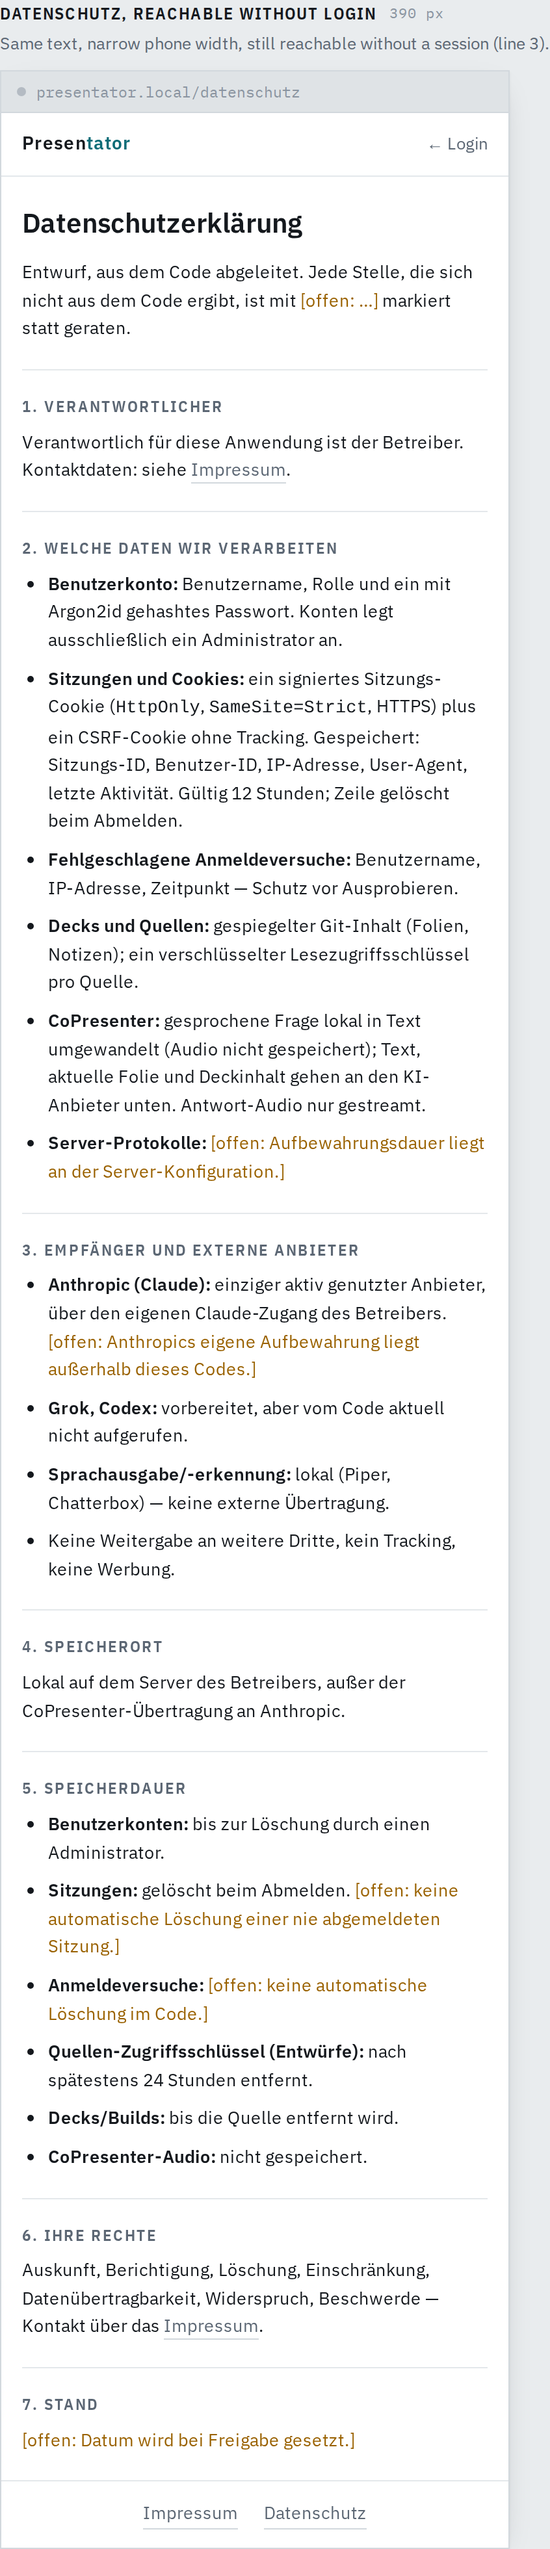
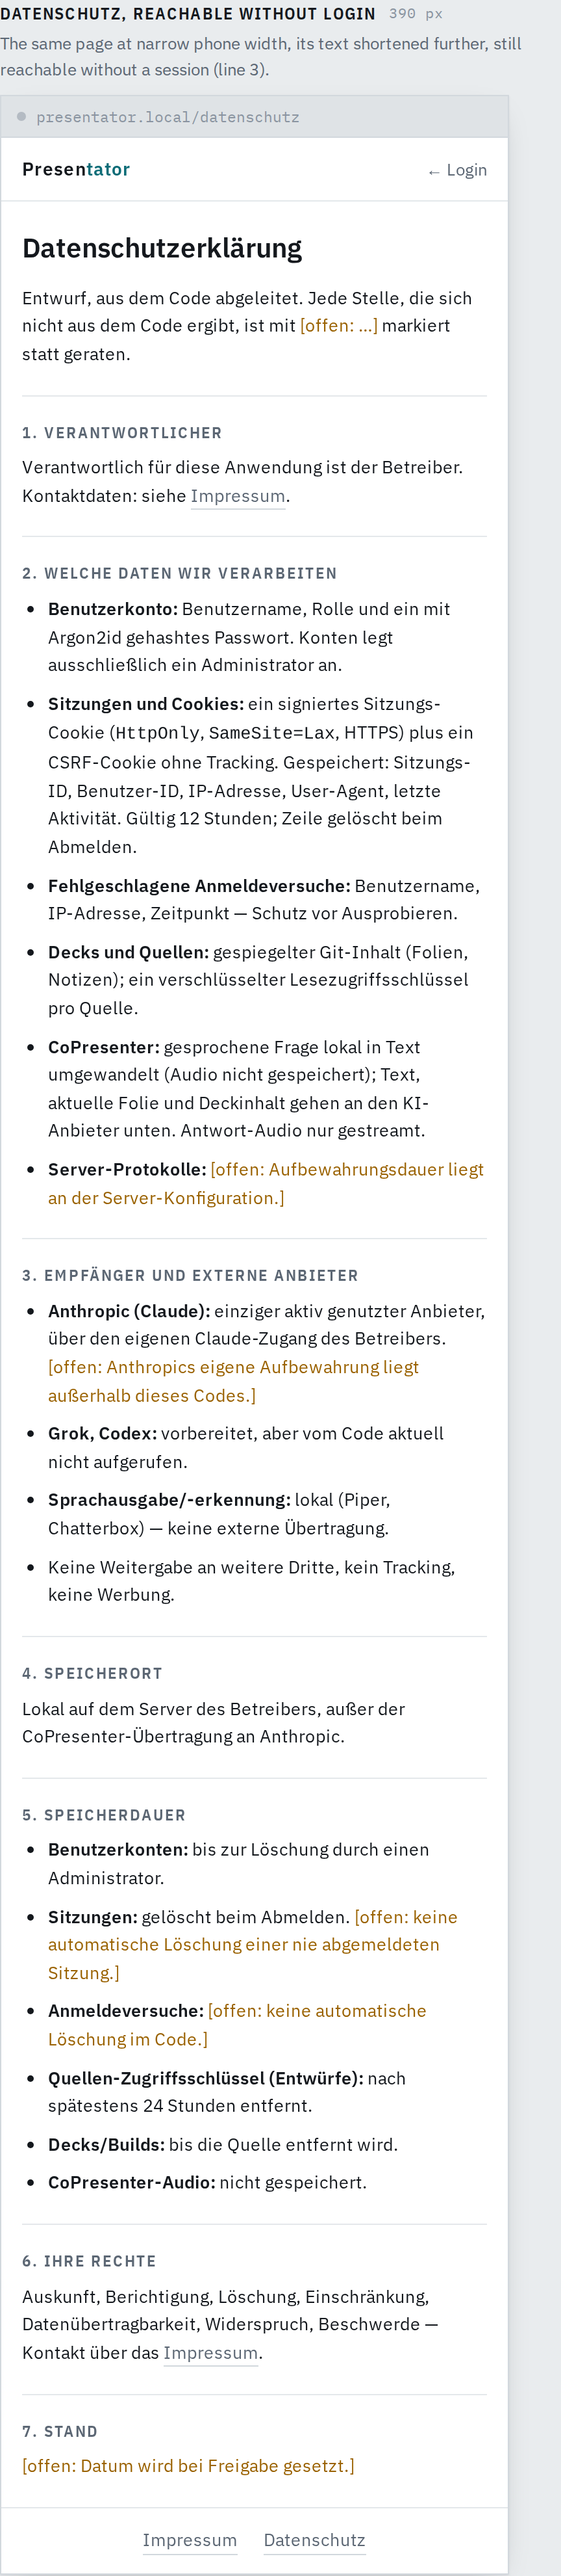
Mockup names api/legal.py as the Datenschutz text's owner
The artboards claimed the draft's text unchanged on both widths, but they
show a shortened rendition, and both said SameSite=Strict where the
cookie is Lax. The board notes and the mockup README now say the
artboards show the layout with shortened text, owned by api/legal.py and
approved as the draft; the cookie reads Lax. Re-rendered the two
Datenschutz artboards and the sheet; the unchanged legal artboards
re-render pixel-identical.

Work-Item: #196

diff --git a/docs/mockups/m0-lobby.html b/docs/mockups/m0-lobby.html
@@ -4622,7 +4622,7 @@ Cannot resolve import "./folien/03-fabric.md" from slides.md
       <figure class="board" id="datenschutz">
         <figcaption class="board-cap">
           <div class="board-title">Datenschutz, reachable without login <span class="w">1024 px</span></div>
-          <p class="board-note">Drafted from the code (<span class="path">docs/mockups/legal-datenschutz-draft.md</span>), identical text on both widths. The operator approves this text before it goes online (line 3); every <span class="offen">[offen: …]</span> marks a fact the code does not settle.</p>
+          <p class="board-note">The page's layout with its text shortened. The words are owned by <span class="path">src/presentator/api/legal.py</span>; the operator approves them as <span class="path">docs/mockups/legal-datenschutz-draft.md</span> before they go online (line 3). Every <span class="offen">[offen: …]</span> marks a fact the code does not settle.</p>
         </figcaption>
         <div class="frame" style="--w: 960px">
           <div class="route">presentator.local/datenschutz</div>
@@ -4646,7 +4646,7 @@ Cannot resolve import "./folien/03-fabric.md" from slides.md
                 <h2>2. Welche Daten wir verarbeiten</h2>
                 <ul>
                   <li><b>Benutzerkonto:</b> Benutzername, Rolle (Admin/Nutzer) und ein mit Argon2id gehashtes Passwort. Konten legt ausschließlich ein Administrator an; es gibt keine Selbstregistrierung.</li>
-                  <li><b>Sitzungen und Cookies:</b> ein serverseitig signiertes Sitzungs-Cookie (<code>HttpOnly</code>, <code>SameSite=Strict</code>, nur über HTTPS) sowie ein zweites, von JavaScript lesbares Cookie ausschließlich zum Fälschungsschutz (CSRF, kein Tracking). Gespeichert werden Sitzungs-ID, Benutzer-ID, IP-Adresse, User-Agent und der Zeitpunkt der letzten Aktivität. Eine Sitzung gilt nach 12 Stunden Inaktivität als beendet; die Zeile wird beim Abmelden gelöscht.</li>
+                  <li><b>Sitzungen und Cookies:</b> ein serverseitig signiertes Sitzungs-Cookie (<code>HttpOnly</code>, <code>SameSite=Lax</code>, nur über HTTPS) sowie ein zweites, von JavaScript lesbares Cookie ausschließlich zum Fälschungsschutz (CSRF, kein Tracking). Gespeichert werden Sitzungs-ID, Benutzer-ID, IP-Adresse, User-Agent und der Zeitpunkt der letzten Aktivität. Eine Sitzung gilt nach 12 Stunden Inaktivität als beendet; die Zeile wird beim Abmelden gelöscht.</li>
                   <li><b>Fehlgeschlagene Anmeldeversuche:</b> Benutzername, IP-Adresse und Zeitpunkt, zum Schutz vor automatisiertem Ausprobieren (nach 5 Fehlversuchen wird gedrosselt).</li>
                   <li><b>Decks und Quellen:</b> der Inhalt Ihrer verbundenen Git-Quellen (Folientitel, Folieninhalt, Sprechernotizen) wird auf den Server gespiegelt und zu Vorträgen gebaut. Ein Lesezugriffsschlüssel pro Quelle wird verschlüsselt gespeichert und kann nach der Eingabe nur erneuert, nie wieder angezeigt werden.</li>
                   <li><b>CoPresenter (Sprachfunktion):</b> Ihre gesprochene Frage wird lokal in Text umgewandelt; die Audio-Rohdaten werden dabei nicht gespeichert. Der erkannte Text, die aktuelle Folie und der vollständige Deckinhalt werden an den in Abschnitt 3 genannten KI-Anbieter gesendet. Die gesprochene Antwort wird lokal erzeugt und nur für die Wiedergabe gestreamt, nicht dauerhaft gespeichert.</li>
@@ -4700,7 +4700,7 @@ Cannot resolve import "./folien/03-fabric.md" from slides.md
       <figure class="board">
         <figcaption class="board-cap">
           <div class="board-title">Datenschutz, reachable without login <span class="w">390 px</span></div>
-          <p class="board-note">Same text, narrow phone width, still reachable without a session (line 3).</p>
+          <p class="board-note">The same page at narrow phone width, its text shortened further, still reachable without a session (line 3).</p>
         </figcaption>
         <div class="frame" style="--w: 390px">
           <div class="route">presentator.local/datenschutz</div>
@@ -4724,7 +4724,7 @@ Cannot resolve import "./folien/03-fabric.md" from slides.md
                 <h2>2. Welche Daten wir verarbeiten</h2>
                 <ul>
                   <li><b>Benutzerkonto:</b> Benutzername, Rolle und ein mit Argon2id gehashtes Passwort. Konten legt ausschließlich ein Administrator an.</li>
-                  <li><b>Sitzungen und Cookies:</b> ein signiertes Sitzungs-Cookie (<code>HttpOnly</code>, <code>SameSite=Strict</code>, HTTPS) plus ein CSRF-Cookie ohne Tracking. Gespeichert: Sitzungs-ID, Benutzer-ID, IP-Adresse, User-Agent, letzte Aktivität. Gültig 12 Stunden; Zeile gelöscht beim Abmelden.</li>
+                  <li><b>Sitzungen und Cookies:</b> ein signiertes Sitzungs-Cookie (<code>HttpOnly</code>, <code>SameSite=Lax</code>, HTTPS) plus ein CSRF-Cookie ohne Tracking. Gespeichert: Sitzungs-ID, Benutzer-ID, IP-Adresse, User-Agent, letzte Aktivität. Gültig 12 Stunden; Zeile gelöscht beim Abmelden.</li>
                   <li><b>Fehlgeschlagene Anmeldeversuche:</b> Benutzername, IP-Adresse, Zeitpunkt — Schutz vor Ausprobieren.</li>
                   <li><b>Decks und Quellen:</b> gespiegelter Git-Inhalt (Folien, Notizen); ein verschlüsselter Lesezugriffsschlüssel pro Quelle.</li>
                   <li><b>CoPresenter:</b> gesprochene Frage lokal in Text umgewandelt (Audio nicht gespeichert); Text, aktuelle Folie und Deckinhalt gehen an den KI-Anbieter unten. Antwort-Audio nur gestreamt.</li>

diff --git a/docs/mockups/README.md b/docs/mockups/README.md
@@ -142,9 +142,11 @@ from projector view.
 ### Rechtliches (#196)
 
 Impressum and Datenschutz, reachable without a session, and the same footer
-links carried onto a page after login. Drafted from the code; the Datenschutz
-text's source is [`legal-datenschutz-draft.md`](legal-datenschutz-draft.md),
-pending the operator's approval before it goes online (issue #196, line 3).
+links carried onto a page after login. The Datenschutz artboards show the
+page's layout with shortened text. The words are owned by
+`src/presentator/api/legal.py`; [`legal-datenschutz-draft.md`](legal-datenschutz-draft.md)
+is their copy for the operator's approval before they go online (issue #196,
+line 3).
 
 | PNG | Caption | Lines |
 |---|---|---|

diff --git a/docs/mockups/legal-datenschutz-draft.md b/docs/mockups/legal-datenschutz-draft.md
@@ -1,6 +1,6 @@
 # Datenschutzerklärung — Presentator (Entwurf für #196)
 
-Der Betreiber prüft und gibt diesen Text frei, bevor er online geht (#197,
+Der Betreiber prüft und gibt diesen Text frei, bevor er online geht (#196,
 Linie 3). Der veröffentlichte Text gehört `src/presentator/api/legal.py`;
 alles unterhalb der Linie entspricht ihm Wort für Wort. Die Leerlaufzeit
 (12 Stunden) und die Fehlversuchsgrenze (5) liest der Code aus
